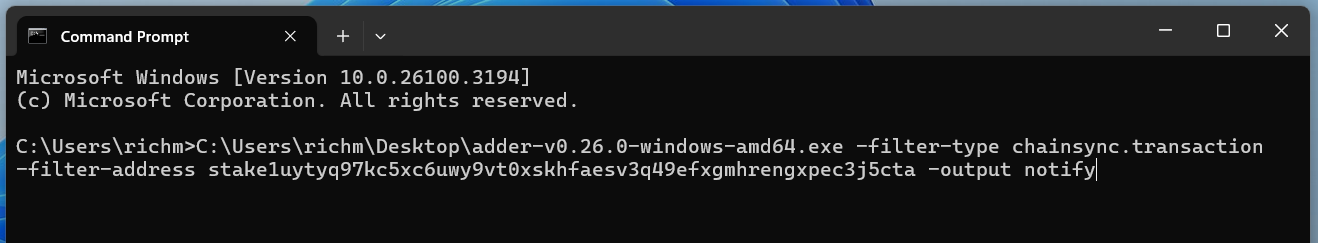
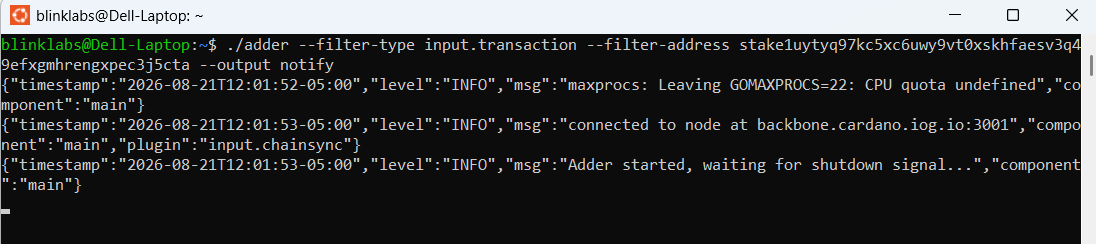
Fix: Update Adder Examples to Linux (#376)
* Fix: Update Adder Examples to Linux 

Fix: Update Adder Examples to Linux 

* Update 002-example-1-watch-my-wallet-and-get-a-desktop-notification.md

* Add files via upload

* Update 003-example-2-watch-a-token-and-get-a-desktop-notification.md

* Update 003-example-2-watch-a-token-and-get-a-desktop-notification.md

* Update 002-example-1-watch-my-wallet-and-get-a-desktop-notification.md

* Update 004-example-3-watch-an-spo-and-get-an-alert-in-discord.md

* Update 005-example-4-watch-a-smart-contract-for-a-specific-asset-id-and-get-a-desktop-notification.md

* Update 004-example-3-watch-an-spo-and-get-an-alert-in-discord.md

* Update 005-example-4-watch-a-smart-contract-for-a-specific-asset-id-and-get-a-desktop-notification.md

* Update 006-example-5-watch-an-drep-and-get-an-alert-in-telegram.md

* Update 002-example-1-watch-my-wallet-and-get-a-desktop-notification.md

* Update 002-example-1-watch-my-wallet-and-get-a-desktop-notification.md

* Update 003-example-2-watch-a-token-and-get-a-desktop-notification.md

* Update 004-example-3-watch-an-spo-and-get-an-alert-in-discord.md

* Update 005-example-4-watch-a-smart-contract-for-a-specific-asset-id-and-get-a-desktop-notification.md

* Update 006-example-5-watch-an-drep-and-get-an-alert-in-telegram.md

* Update 002-example-1-watch-my-wallet-and-get-a-desktop-notification.md

* Add files via upload

* Update 003-example-2-watch-a-token-and-get-a-desktop-notification.md
[…]

diff --git a/src/content/docs/guides/adder/Examples/002-example-1-watch-my-wallet-and-get-a-desktop-notification.md b/src/content/docs/guides/adder/Examples/002-example-1-watch-my-wallet-and-get-a-desktop-notification.md
@@ -5,7 +5,7 @@ description: Adder Example 1 - Watch My Wallet and get a Desktop Notification.
 
 Let's walk through how to open Adder, input filters and commands so that it tracks your wallet and gives you a desktop notification when there is a change to your wallet.
 
-> ✅ For this guide we assume you have already downloaded the Adder exe and have opened a command prompt. If not see our [Quick Start](../../005-use-adder-on-linux) guide.
+> ✅ For this guide we assume you have already downloaded the Adder binary. If not see our [Quick Start](../../005-use-adder-on-linux) guide.
 
 ***
 <a name="step-1"></a>
@@ -71,17 +71,12 @@ We want the output to be a desktop notification, so that when a transaction occu
 
 Now that we understand the filters and commands that we want to input into Adder in order to get desktop alerts when we send or receive an asset, we will run the following command in our command prompt:
 
+> ⚠ Please make sure you replace the below stake address with your receive or stake address from [Step 1](#step-1)
 
-> ⚠ Please adjust the path to your Adder exe. In this example it's on the Desktop for user richm.\
-\
-Also make sure you replace the below stake address with your receive or stake address from [Step 1](#step-1)
-
-
-Command to run once you adjust Adder exe path and your wallet address:
-
+Command to run once you adjust Adder binary path and your wallet address:
 
 ```
-"C:\Users\richm\Desktop\adder.exe" --filter-type input.transaction --filter-address stake1uytyq97kc5xc6uwy9vt0xskhfaesv3q49efxgmhrengxpec3j5cta --output notify
+./adder --filter-type input.transaction --filter-address stake1uytyq97kc5xc6uwy9vt0xskhfaesv3q49efxgmhrengxpec3j5cta --output notify
 ```
 
 Final command to run:
@@ -89,19 +84,14 @@ Final command to run:
      alt="adder-final-ex-1-command"
      style="max-width:100%; height:auto; max-height:500px; object-fit:contain; border:1px solid #ccc;" />
 
-After you hit enter to run the command you can minimize the cmd window and let it run in the background. Now when your wallet sends or receives an asset you will get a desktop notification.
-
-Minimize:
-<img src="/adder-minimize-final-ex-1-command.png"
-     alt="adder-minimize-final-ex-1-command"
-     style="max-width:100%; height:auto; max-height:500px; object-fit:contain; border:1px solid #ccc;" />
+Now when your wallet sends or receives an asset you will get a desktop notification.
 
 Desktop Alert:
-<img src="/adder-desktop-alert.png"
+<img src="/adder-desktop-alert-v2.png"
      alt="adder-desktop-alert"
      style="max-width:100%; height:auto; max-height:500px; object-fit:contain; border:1px solid #ccc;" />
 
-### Congratulations!&#x20;
+### Congratulations!
 
 ***
 

diff --git a/src/content/docs/guides/adder/Examples/004-example-3-watch-an-spo-and-get-an-alert-in-discord.md b/src/content/docs/guides/adder/Examples/004-example-3-watch-an-spo-and-get-an-alert-in-discord.md
@@ -17,7 +17,7 @@ In this example we will use Adder to send us a Discord notification via webhooks
 
 ***
 
-> ✅ For this guide we assume you have already downloaded the Adder exe and have opened a command prompt. If not see our [Quick Start](../../005-use-adder-on-linux) guide.
+> ✅ For this guide we assume you have already downloaded the Adder binary. If not see our [Quick Start](../../005-use-adder-on-linux) guide.
 
 ***
 
@@ -169,11 +169,10 @@ For us to get a notification in our preferred Discord channel, we need to tell A
 
 To get Discord notifications when a change occurs to a SPO, we will run the following command in our command prompt:
 
-> ⚠ Please adjust the path to your Adder exe. In this example it's on the Desktop for user richm.\
-> Also adjust the pool id and webhook URL.
+> ⚠ Please adjust the pool id and webhook URL.
 
 ```
-"C:\Users\richm\Desktop\adder.exe" --filter-type input.transaction, input.block --filter-pool pool16cdtqyk0fvxzfkhjg3esjcuty4tnlpds5lj0lkmqmwdjyzaj7p8 --output webhook --output-webhook-format discord --output-webhook-url https://discord.com/api/webhooks/1342941446373773342/Wo1bXhSouY5fKdv2frsUQlOnT5UTa9heCxinN_B13AUTuaQ0IOzxzr9ZYsa4co2VN3mi
+./adder --filter-type input.transaction, input.block --filter-pool pool16cdtqyk0fvxzfkhjg3esjcuty4tnlpds5lj0lkmqmwdjyzaj7p8 --output webhook --output-webhook-format discord --output-webhook-url https://discord.com/api/webhooks/1342941446373773342/Wo1bXhSouY5fKdv2frsUQlOnT5UTa9heCxinN_B13AUTuaQ0IOzxzr9ZYsa4co2VN3mi
 ```
 
 <img src="/adder-SPO-block-alert.png"
@@ -182,7 +181,7 @@ To get Discord notifications when a change occurs to a SPO, we will run the foll
 
 ### Congratulations!
 
-Now you can minimize the window and let Adder run in the background. Anytime a change occurs to our Pool we will get an Alert in Discord.
+Anytime a change occurs to our Pool we will get an Alert in Discord.
 
 ***
 

diff --git a/src/content/docs/guides/adder/Examples/005-example-4-watch-a-smart-contract-for-a-specific-asset-id-and-get-a-desktop-notification.md b/src/content/docs/guides/adder/Examples/005-example-4-watch-a-smart-contract-for-a-specific-asset-id-and-get-a-desktop-notification.md
@@ -22,7 +22,7 @@ c04e78ea267631f27975446a15d96ef1f3bbcdbf99577d3e552c663b
 
 <br />
 
-> ✅ For this guide we assume you have already downloaded the Adder exe and have opened a command prompt. If not see our [Quick Start](../../005-use-adder-on-linux) guide.
+> ✅ For this guide we assume you have already downloaded the Adder binary. If not see our [Quick Start](../../005-use-adder-on-linux) guide.
 
 
 
@@ -95,20 +95,18 @@ We want the output to be a desktop notification. So when a transaction that cont
 
 To get desktop notifications when a transaction includes the Tosidrop token cTOSI, within the smart contract we will run the following command in our command prompt:
 
-> ⚠ Please adjust the path to your Adder exe. In this example it's on the Desktop for user richm.\
-> Also adjust to the asset id and policy id that you want to track.
-
+> ⚠ Please adjust the asset id and policy id that you want to track below.
 
 ```
-"C:\Users\richm\Desktop\adder.exe" --filter-type input.transaction --filter-asset asset1uaxup2yv695uat3chgwqtpg9xvau55pd5z6r46 --filter-policy c04e78ea267631f27975446a15d96ef1f3bbcdbf99577d3e552c663b --output notify
+./adder --filter-type input.transaction --filter-asset asset1uaxup2yv695uat3chgwqtpg9xvau55pd5z6r46 --filter-policy c04e78ea267631f27975446a15d96ef1f3bbcdbf99577d3e552c663b --output notify
 ```
 
 
 ### Congratulations!
 
-Now you can minimize the window and let Adder run in the background. Anytime a transaction occurs containing cTOSI in our smart contract you will get a desktop alert.
+Anytime a transaction occurs containing cTOSI in our smart contract you will get a desktop alert.
 
-<img src="/adder-desktop-alert.png"
+<img src="/adder-desktop-alert-v2.png"
      alt="adder-desktop-alert"
      style="max-width:100%; height:auto; max-height:500px; object-fit:contain; border:1px solid #ccc;" />
 

diff --git a/src/content/docs/guides/adder/Examples/003-example-2-watch-a-token-and-get-a-desktop-notification.md b/src/content/docs/guides/adder/Examples/003-example-2-watch-a-token-and-get-a-desktop-notification.md
@@ -5,7 +5,7 @@ description: Adder Example 2 - Watch a Token and get a Desktop Notification.
 
 In this example we will use Adder to send us a desktop notification when there is a transaction that includes a certain token or asset that we want to track.
 
-> ✅ For this guide we assume you have already downloaded the Adder exe and have opened a command prompt. If not see our [Quick Start](../../005-use-adder-on-linux) guide.
+> ✅ For this guide we assume you have already downloaded the Adder binary. If not see our [Quick Start](../../005-use-adder-on-linux) guide.
 
 ***
 
@@ -65,18 +65,15 @@ We want the output to be a desktop notification. So that when a transaction that
 
 To get desktop notifications when a transaction includes the Tosidrop token cTOSI, we will run the following command in our command prompt:
 
-> ⚠ Please adjust the path to your Adder exe. In this example it's on the Desktop for user richm.
-
-
 ```
-"C:\Users\richm\Desktop\adder.exe" --filter-type input.transaction --filter-asset asset1uaxup2yv695uat3chgwqtpg9xvau55pd5z6r46 --output notify
+./adder --filter-type input.transaction --filter-asset asset1uaxup2yv695uat3chgwqtpg9xvau55pd5z6r46 --output notify
 ```
 
 ### Congratulations!
 
-Now you can minimize the window and let Adder run in the background. Anytime a transaction occurs containing cTOSI you will get a desktop alert.
+Anytime a transaction occurs containing cTOSI you will get a desktop alert.
 
-<img src="/adder-desktop-alert.png"
+<img src="/adder-desktop-alert-v2.png"
      alt="adder-desktop-alert"
      style="max-width:100%; height:auto; max-height:500px; object-fit:contain; border:1px solid #ccc;" />
 

diff --git a/src/content/docs/guides/adder/Examples/006-example-5-watch-an-drep-and-get-an-alert-in-telegram.md b/src/content/docs/guides/adder/Examples/006-example-5-watch-an-drep-and-get-an-alert-in-telegram.md
@@ -15,7 +15,7 @@ In this example we will use Adder to send us a Telegram notification, when there
 
 ***
 
-> ✅ For this guide we assume you have already downloaded the Adder exe and have opened a command prompt. If not see our [Quick Start](../../005-use-adder-on-linux) guide.
+> ✅ For this guide we assume you have already downloaded the Adder binary. If not see our [Quick Start](../../005-use-adder-on-linux) guide.
 
 ***
 
@@ -226,17 +226,16 @@ For us to get a notification in our preferred Telegram channel, we need to tell 
 
 To get Telegram notifications when a action occurs by a DRep, we will run the following command in our command prompt:
 
-> ⚠ Please adjust the path to your Adder exe. In this example it's on the Desktop for user richm.\
-> Also adjust the DRep id, $TELEGRAM_TOKEN, and $CHAT_ID.
+> ⚠ Please adjust the DRep id, $TELEGRAM_TOKEN, and $CHAT_ID below.
 
 ```
-"C:\Users\richm\Desktop\adder.exe" --filter-type input.governance --filter-drep drep1yg8vjs7ute7z7vyd8yez5tgjey6043djjfh8d3n7sjev35g064xxc --output telegram --output-telegram-bot-token $TELEGRAM_TOKEN --output-telegram-chat-id $CHAT_ID
+./adder --filter-type input.governance --filter-drep drep1yg8vjs7ute7z7vyd8yez5tgjey6043djjfh8d3n7sjev35g064xxc --output telegram --output-telegram-bot-token $TELEGRAM_TOKEN --output-telegram-chat-id $CHAT_ID
 ```
 
 
 ### Congratulations!
 
-Now you can minimize the window and let Adder run in the background. Anytime an action occurs with our DRep we will get an Alert in Telegram.
+Anytime an action occurs with our DRep we will get an Alert in Telegram.
 
 ***
 
